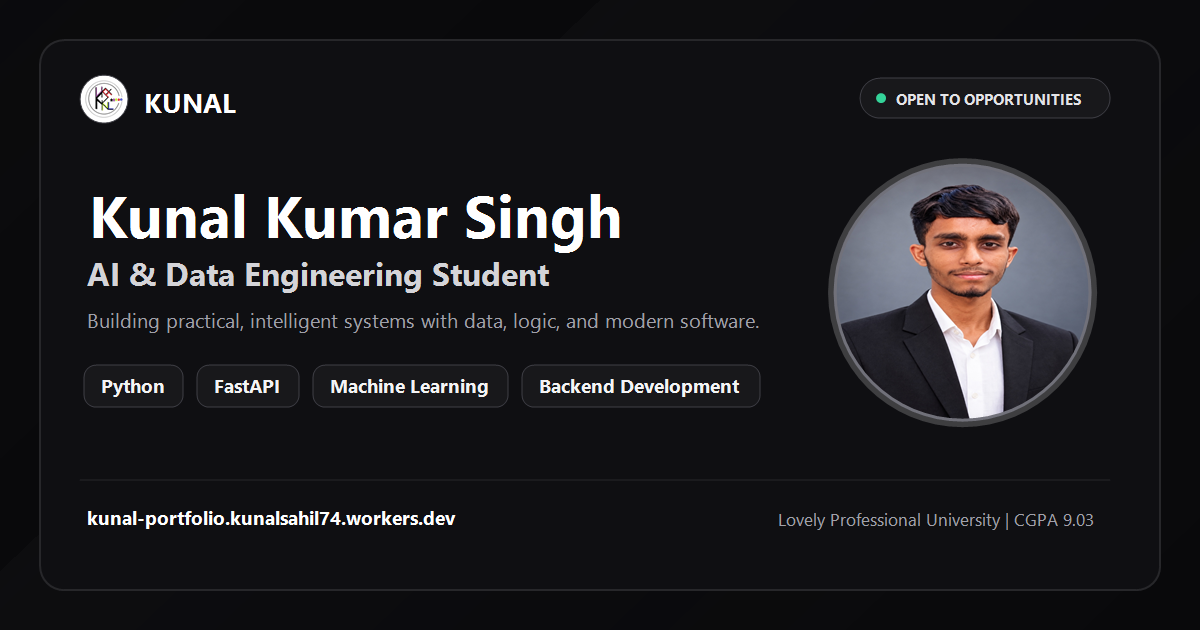
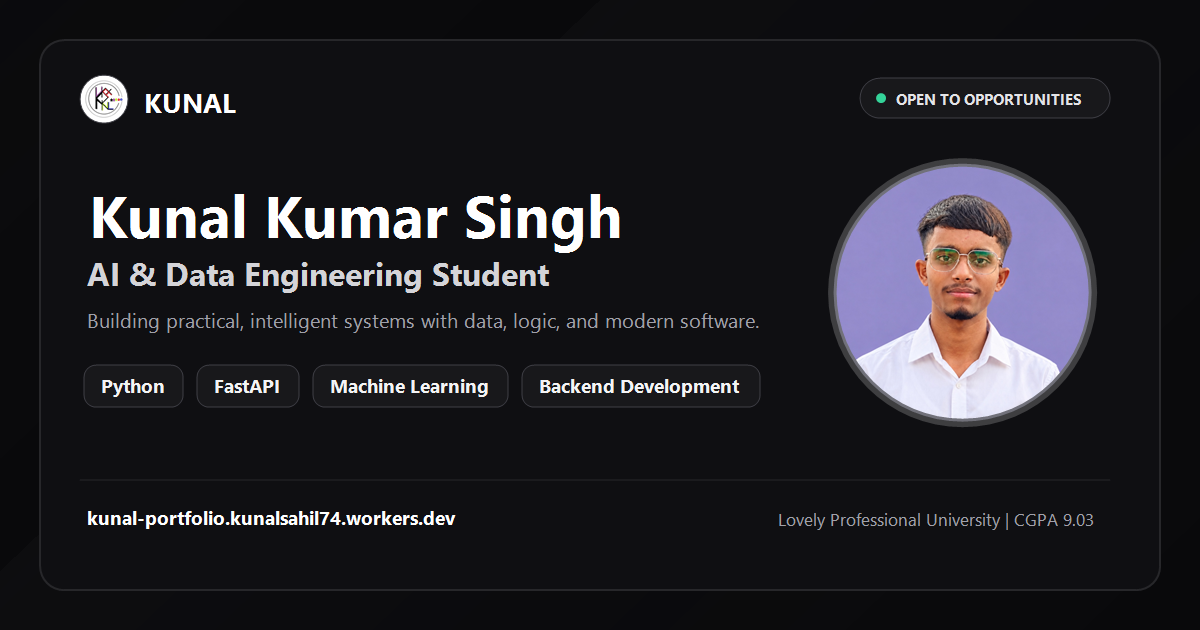
feat: update profile picture with proper circular alignment and regenerate og-image

Changed region(s): [[0.6783, 0.2413, 0.925, 0.6635]]

diff --git a/src/components/Hero.jsx b/src/components/Hero.jsx
@@ -164,7 +164,7 @@ export const Hero = ({ isDark, onOpenResume }) => {
                   <img
                     src="/profile.png"
                     alt={personalInfo.fullName}
-                    className="w-full h-full object-cover object-top select-none"
+                    className="w-full h-full object-cover object-center select-none"
                     onError={(e) => {
                       e.target.src = 'https://images.unsplash.com/photo-1534528741775-53994a69daeb?auto=format&fit=crop&q=80&w=600';
                     }}
